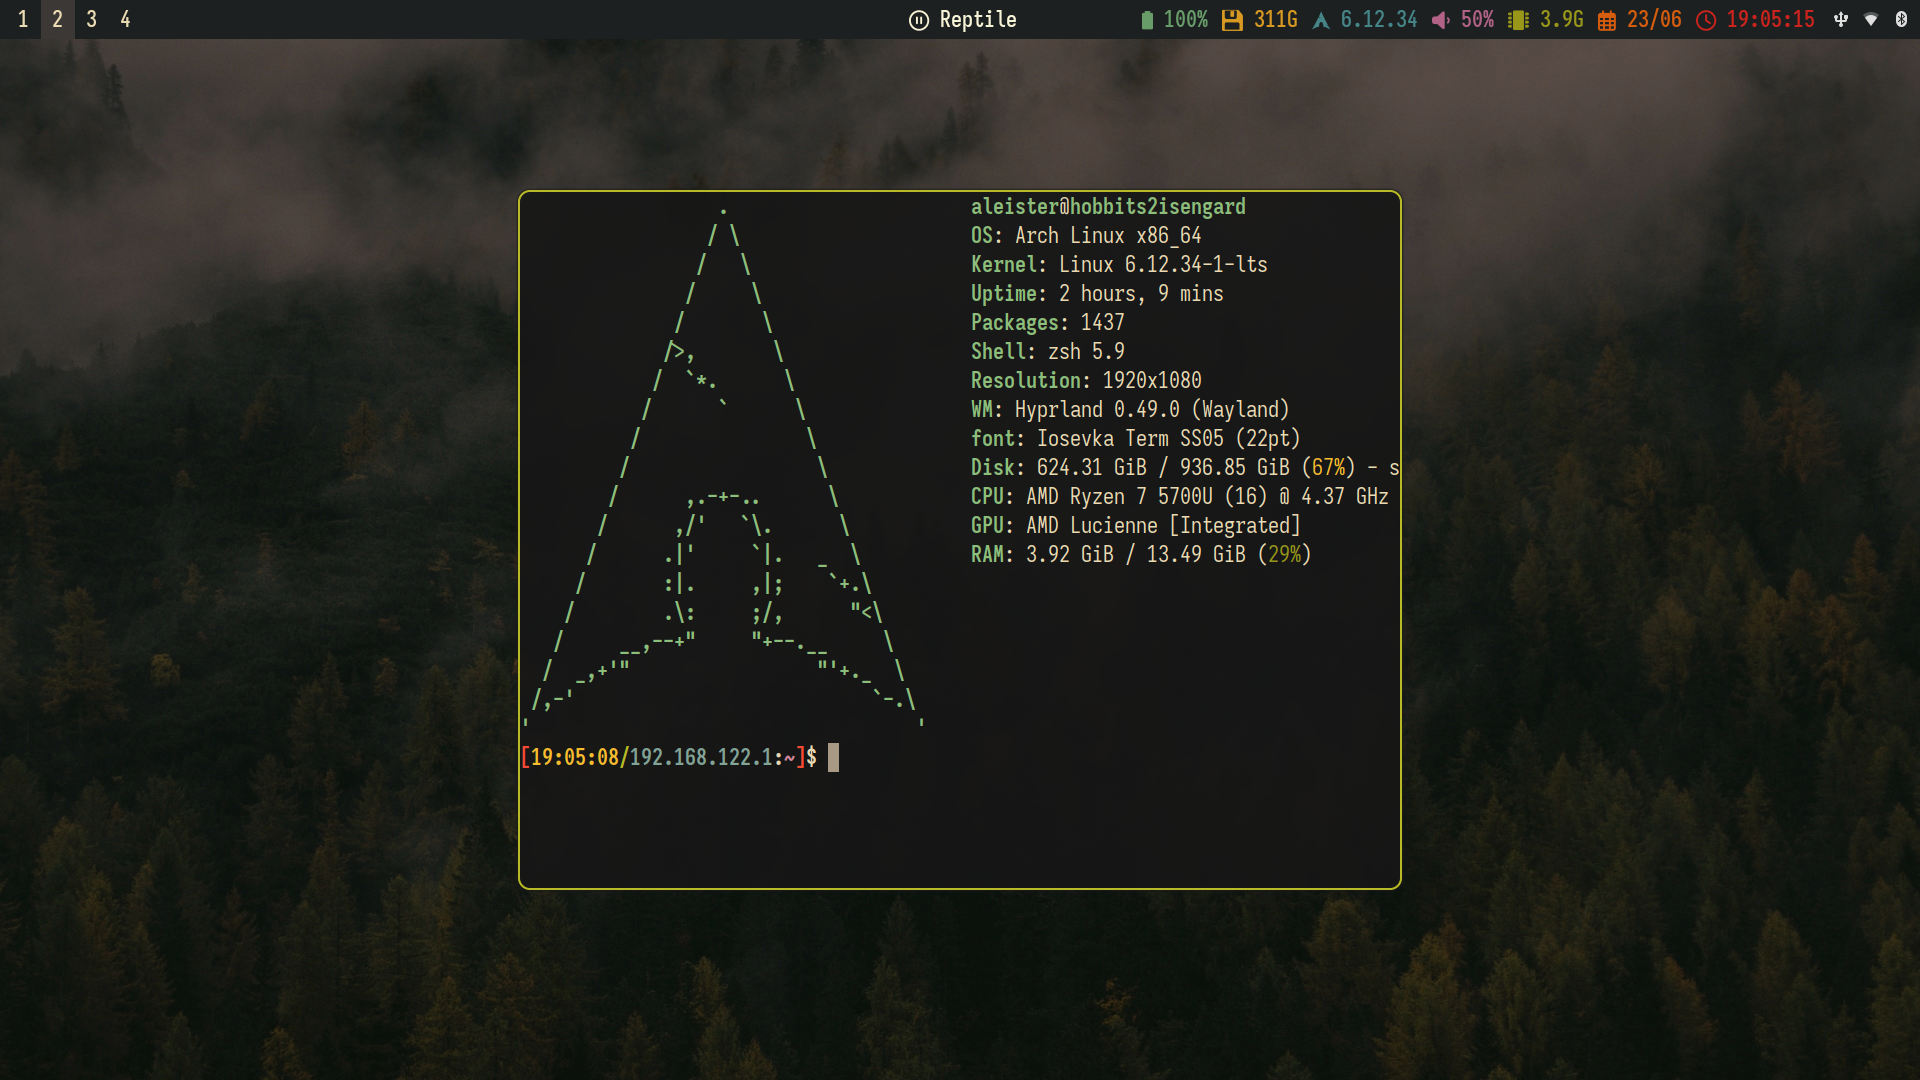
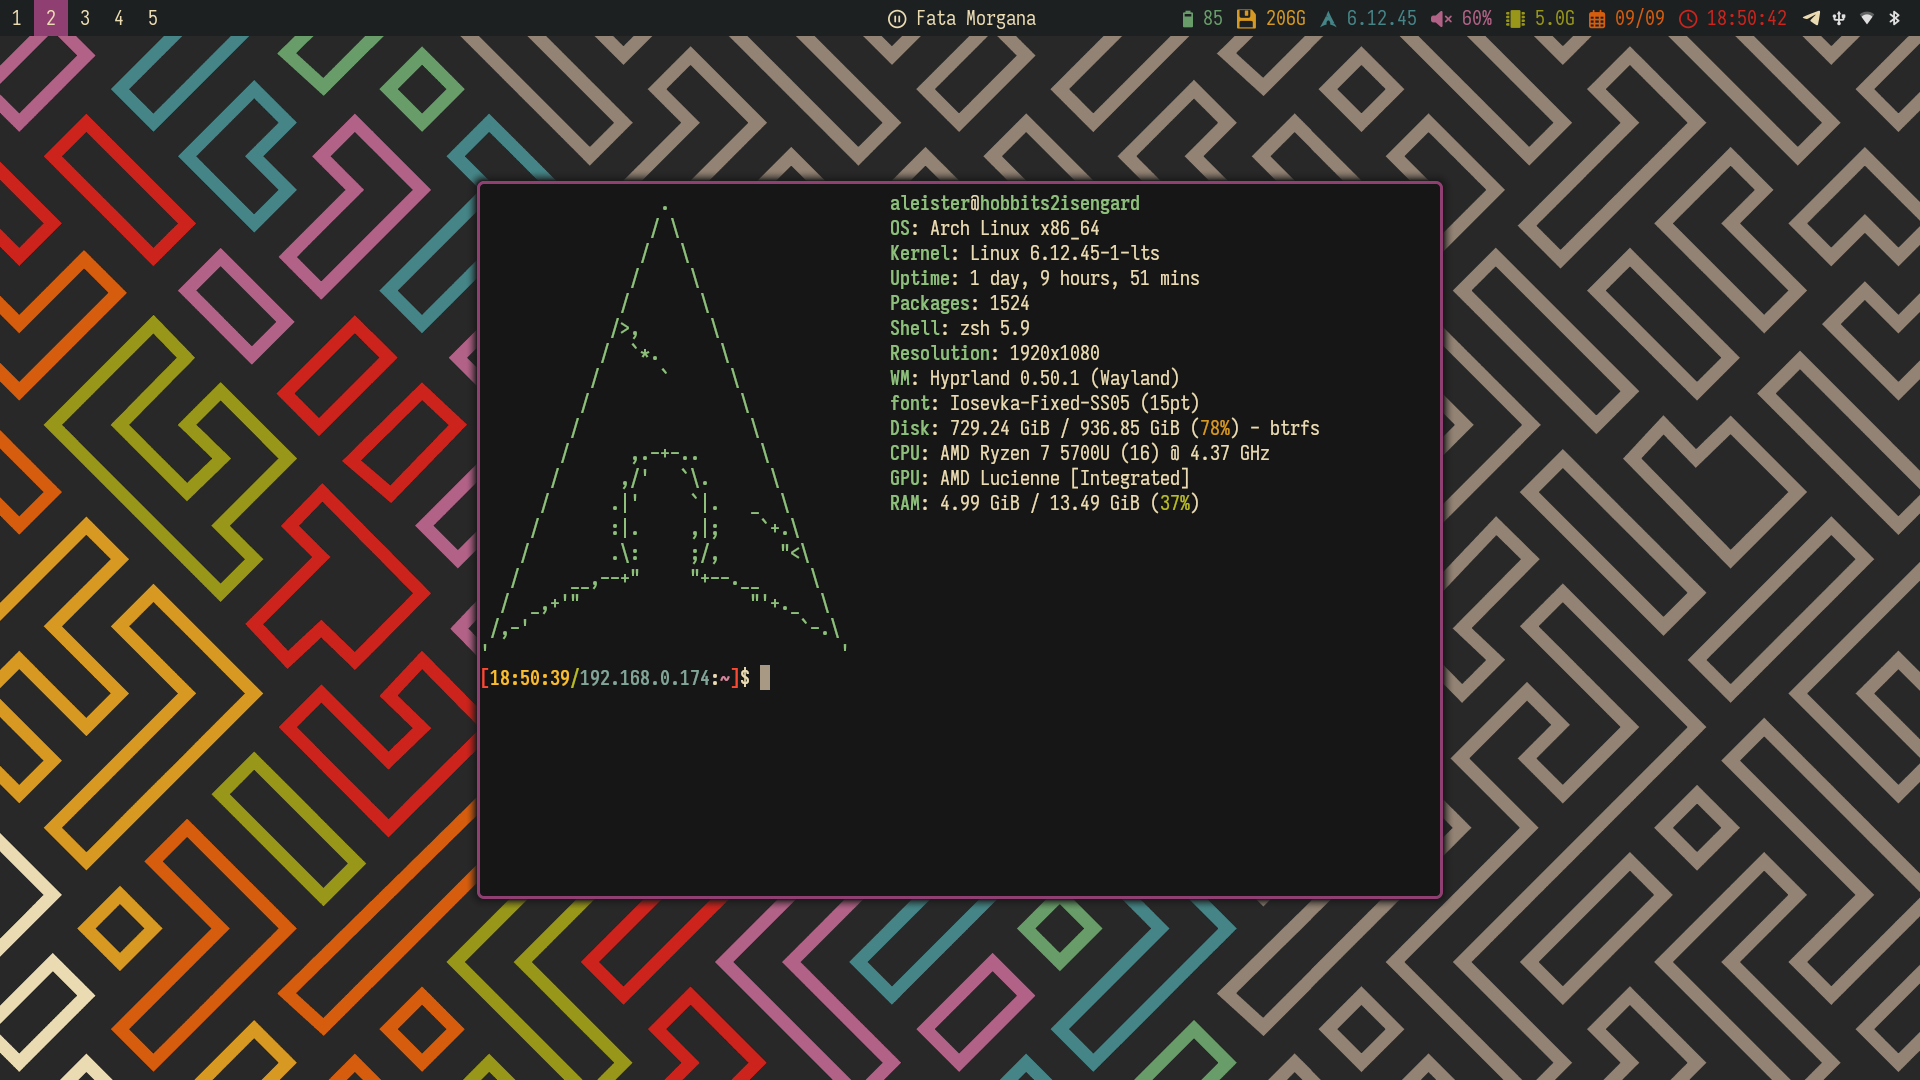
chore: update appearance

diff --git a/.config/waybar/style.css b/.config/waybar/style.css
@@ -17,7 +17,7 @@ window#waybar {
 }
 
 #workspaces button.active {
-  background: #282828;
+  background: #8f3f71;
 }
 
 #window {
